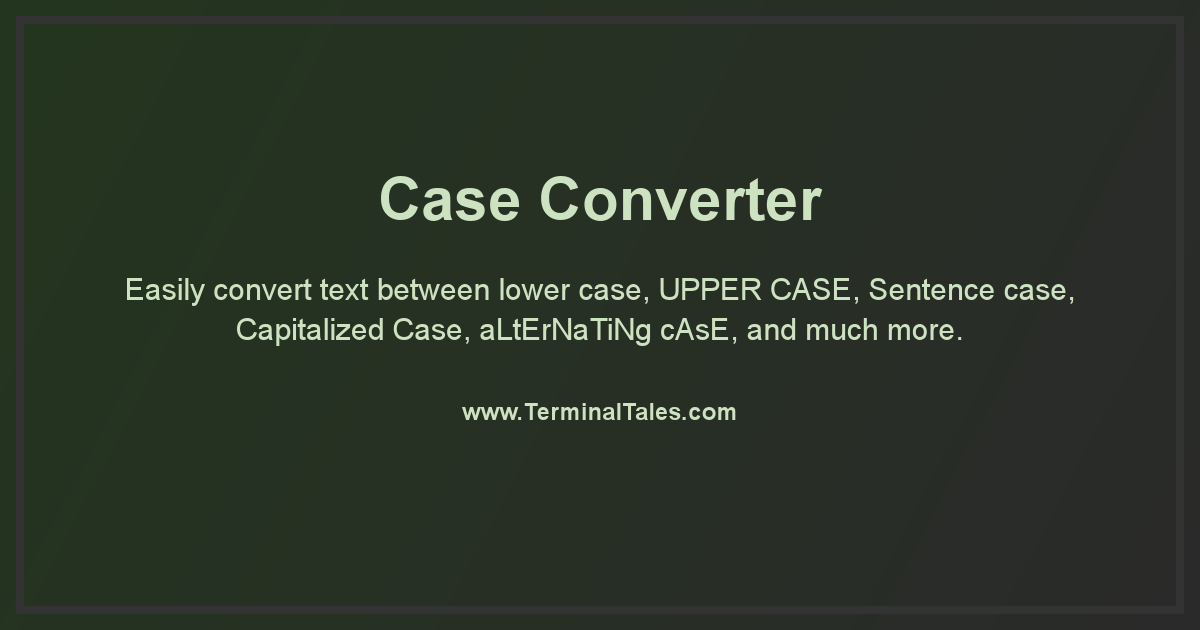
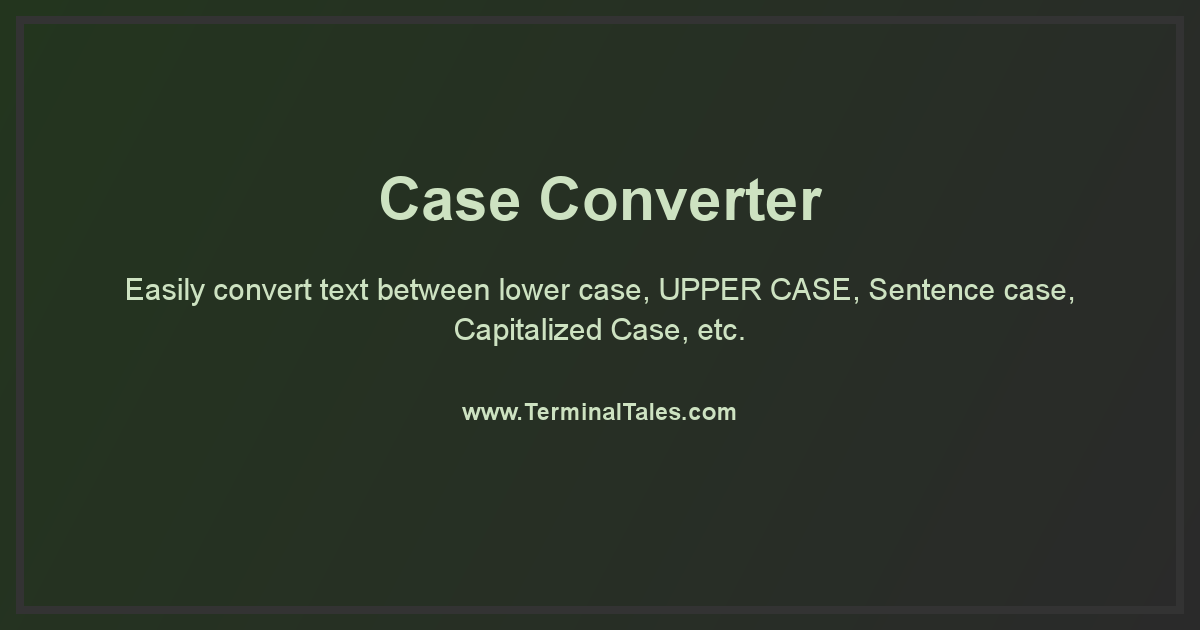
Latest version of build

Changed region(s): [[0.185, 0.4825, 0.8017, 0.5429]]

diff --git a/src/Tools/Text-Tools/Case-Converter/index.jsx b/src/Tools/Text-Tools/Case-Converter/index.jsx
@@ -11,7 +11,7 @@ import Buttons from './Buttons'
 import { useCaseConvert } from './datascript'
 
 const Description =
-  'Easily convert text between lower case, UPPER CASE, Sentence case, Capitalized Case, aLtErNaTiNg cAsE, and much more.'
+  'Easily convert text between lower case, UPPER CASE, Sentence case, Capitalized Case, etc.'
 
 const ToolIcon = 'ALargeSmall'
 
